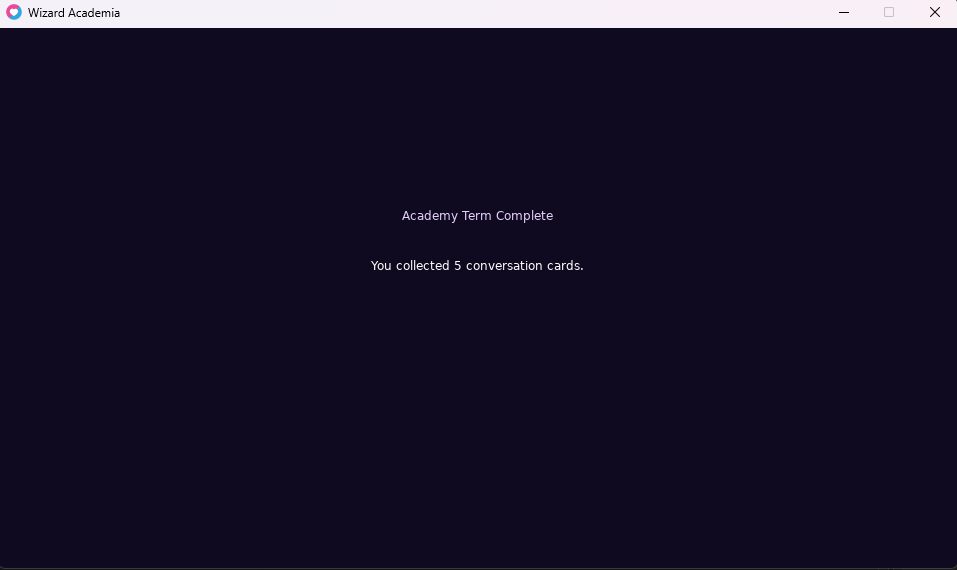
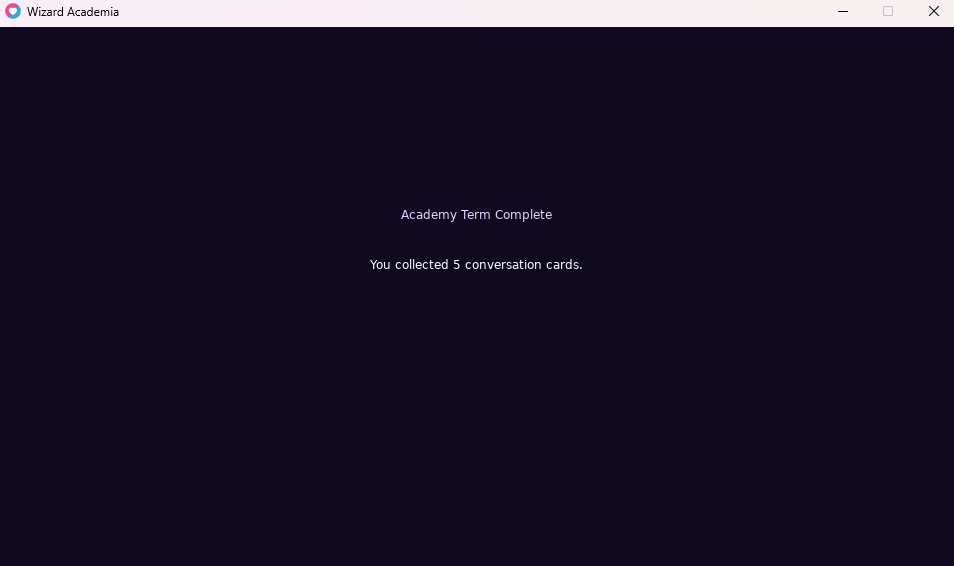
update media

diff --git a/PORTFOLIO_EVIDENCE.md b/PORTFOLIO_EVIDENCE.md
@@ -40,7 +40,7 @@ En esta escena se permite seleccionar 1 de  3 cartas desplegadas. Este se encarg
 [CardAcquisitionSystem.lua](src/game/cards/CardAcquisitionSystem.lua) de agrear una carta más a la colección.
 
 6. Daily transition and completion: [DayAdvanceSystem.lua](src/game/cards/DayAdvanceSystem.lua)
-Este sistema nos permite cambiar de día.
+Este sistema nos permite cambiar de día hasta que se cumple el máximo de días permitidos por la sesión. 
 
 7. End-to-end test: [arcane_daily_cycle_test.lua](tests/arcane_daily_cycle_test.lua)
 Tests para asegurar el correcto funcionamiento de las funciones y valores esperados.
@@ -60,12 +60,12 @@ En esta escena, la principal al iniciar el juego, se da 4 opciones al jugador.
 Estas son _practice illusions_, _care for a familiar_, _study ancient runes_, _meditate_. De las cuales solo la opción
 de meditar no require de energía alguna. Las otras requiren al menos 1 de energía; el día comienza teniendo 3/5 de energía
 y 2 acciones. 
-![training](assets/demo/training.png)
+![training](assets/demo/training-scene.png)
 
 ### Escena secundaria: adquisición de cartas.
 En esta otra escena se nos otorga la posibilidad de adquirir cartas. Se presenta 3 cartas en pantalla para que nosotros elijamos
 cuál tomar. También en la esquina inferior izquierda se nos muestra las cartas que tenemos hasta el momento. 
-![cards](assets/demo/card_acquisition.png)
+![cards](assets/demo/card-acquisition.png)
 
 ### Escena final: fin
 En esta última escena se culmina los 5 días de entrenamiento y termina el ciclo.
